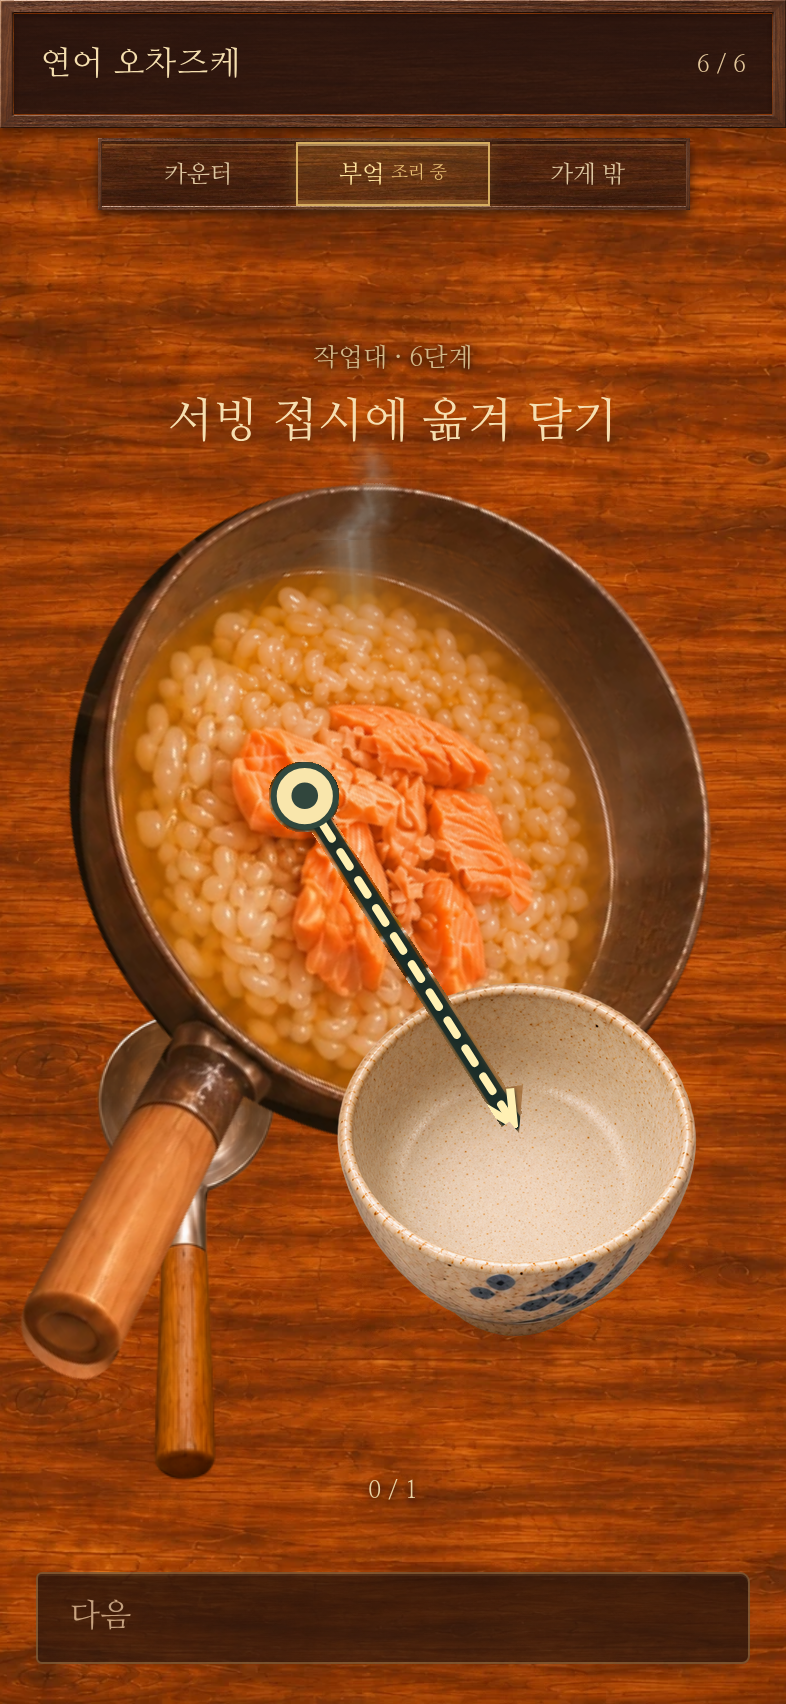
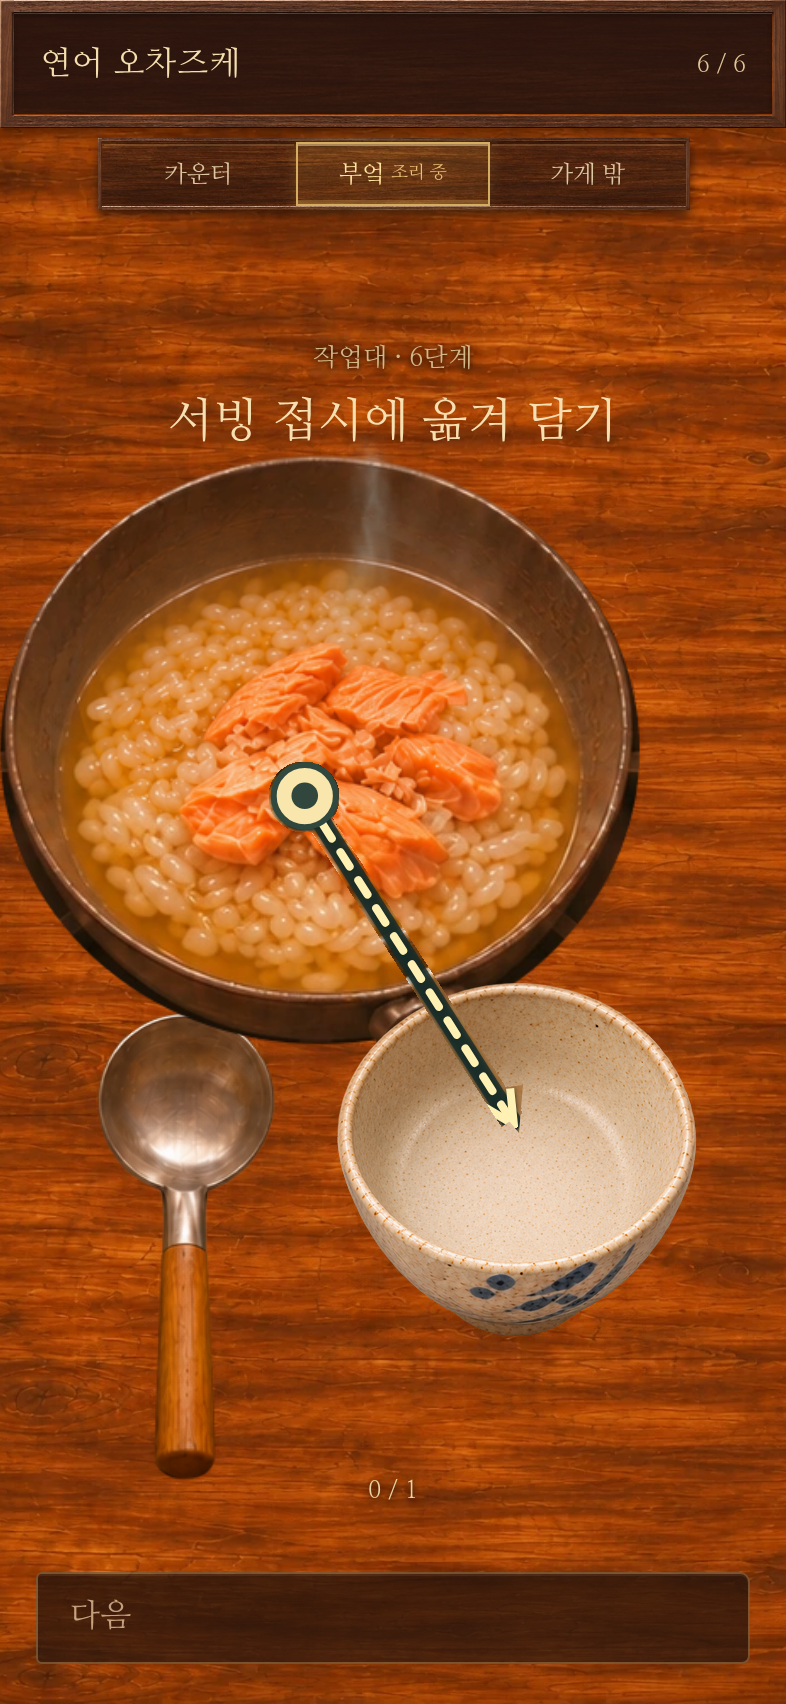
Use the exact existing stove saucepan without regenerating or deforming it

Changed region(s): [[0.0, 0.2488, 0.916, 0.8087]]

diff --git a/docs/mockups/v47/index.html b/docs/mockups/v47/index.html
@@ -2,6 +2,6 @@
 <section id="egg"><h2>달걀 그릇 투명도</h2><p>쌀그릇처럼 배경이 비치게 조정.<br>그릇 테두리·달걀·껍데기·위치는 유지.</p><a href="egg.png"><img src="egg.png" alt="투명도를 높인 달걀 깨기 수정 시안"></a></section>
 <section id="pour"><h2>팬 확대·드래그 위치</h2><p>팬 몸통 폭 약 30% 확대, 평행한 양옆.<br>드래그 시작점과 끝을 모두 팬 내부로 이동.</p><a href="pour.png"><img src="pour.png" alt="팬과 드래그 위치 수정 시안"></a></section>
 <section id="rice"><h2>밥통 확대</h2><p>밥통 선명도 보정, 겹치는 그릇은 앞에.<br>주걱·손·배경은 유지.</p><a href="rice.png?correction=2"><img src="rice.png?correction=2" alt="밥통을 확대한 밥 담기 수정 시안"></a></section>
-<section id="plating"><h2>빈 서빙 그릇·화살표</h2><p>사용자가 고른 왼쪽 아래 손잡이 시안.<br>완성 요리의 실제 서빙 그릇을 비워 준비.</p><a href="plating-large-pan.png?correction=8"><img src="plating-large-pan.png?correction=8" alt="빈 서빙 그릇과 수정한 드래그 경로 시안"></a></section>
+<section id="plating"><h2>빈 서빙 그릇·화살표</h2><p>사용자가 고른 왼쪽 아래 손잡이 시안.<br>완성 요리의 실제 서빙 그릇을 비워 준비.</p><a href="plating-original-stove.png?correction=9"><img src="plating-original-stove.png?correction=9" alt="빈 서빙 그릇과 수정한 드래그 경로 시안"></a></section>
 <section id="broth"><h2>냄비 몸통 확대·손잡이 축소</h2><p>넓은 지름 유지, 몸통 깊이만 축소.<br>가이드 시작점을 올리고 길이를 확장.</p><a href="broth.png?correction=2"><img src="broth.png?correction=2" alt="냄비 몸통과 손잡이 비율 수정 시안"></a></section>
 </main></html>

diff --git a/planning/cooking-mockups-v47.md b/planning/cooking-mockups-v47.md
@@ -44,3 +44,7 @@
 ## 냄비 크기 재교정과 서빙 그릇 전경 고정
 
 사용자가 냄비를 더 크게 하고 손잡이를 자연스럽게 하며, 겹치면 서빙 그릇이 반드시 앞에 오도록 요청했다. 원본 몸통·금속 연결부·손잡이·음식에 단일55° 회전/균일1.8배 변환을 적용했다. 직전보다 냄비가33% 더 커졌고 화면상 몸통 폭은 서빙 그릇의 약1.8배다. 손잡이만 별도로 꺾거나 늘리지 않았으며 어두운 나무 단면의 명도만 조금 높여 끝이 빈 관처럼 보이는 인상을 줄였다. 그릇의 크기·위치·원화를 유지하고 냄비 뒤에 그리는 대신 냄비 위에 합성했다. 겹치는33,811픽셀에서 그릇이 전경이며 불투명 그릇 픽셀은 직전 화면과 그대로다. 글자·배경·가이드 등 사진 변경 영역 밖의 변경 픽셀0개를 확인했다. 본편 화구/다이얼·다른 요리 자산은 수정하지 않았다. 이전 시안 캐시 혼동을 피하려 새 확인 파일 `plating-large-pan.png`도 동일한 결과로 저장했고 확인 페이지는 해당 파일(correction=8)을 사용한다.
+
+## 원본 화구 냄비 직접 사용으로 재확정
+
+사용자는 새로 생성한 냄비를 모두 거절하고 “화구 위에 있는 이미지랑 냄비 같게” 하라고 명확히 재지시했다. 새로 생성한 얕은/깊은 냄비는 모두 미사용이다. 최종 시안은 실제 `stove-v28-ochazuke.webp` 좌하단 조리 프레임에서 냄비 몸통·음식·금속 연결부·원래 손잡이를 직접 잘라 쓴다. 이전에 요청한 김가루 제거 패치 외에는 원본을 그대로 사용한다. 원본 전체에 동일한1.7배 확대와 이동만 적용하고 회전, 가로세로 비율 변형, 손잡이 개별 수정, 새로운 냄비 생성은 적용하지 않았다. 원래 손잡이는 실제 오른쪽 아래 방향 그대로이며 서빙 그릇 뒤에 가려진다. 빈 그릇은 그대로 전경이고, 배경·글자·국자·가이드 및 사진 영역 밖 변경 픽셀0개를 확인했다. 재생성 결과 `exec-69a07953-833a-4570-bae8-e14ff34c3037.png`, `exec-8fa029de-c217-4159-9aa3-07acb03abfe9.png`는 저장소/시안/게임에 적용하지 않았다. 확인 파일 `plating-original-stove.png`, 태그 correction=9.
